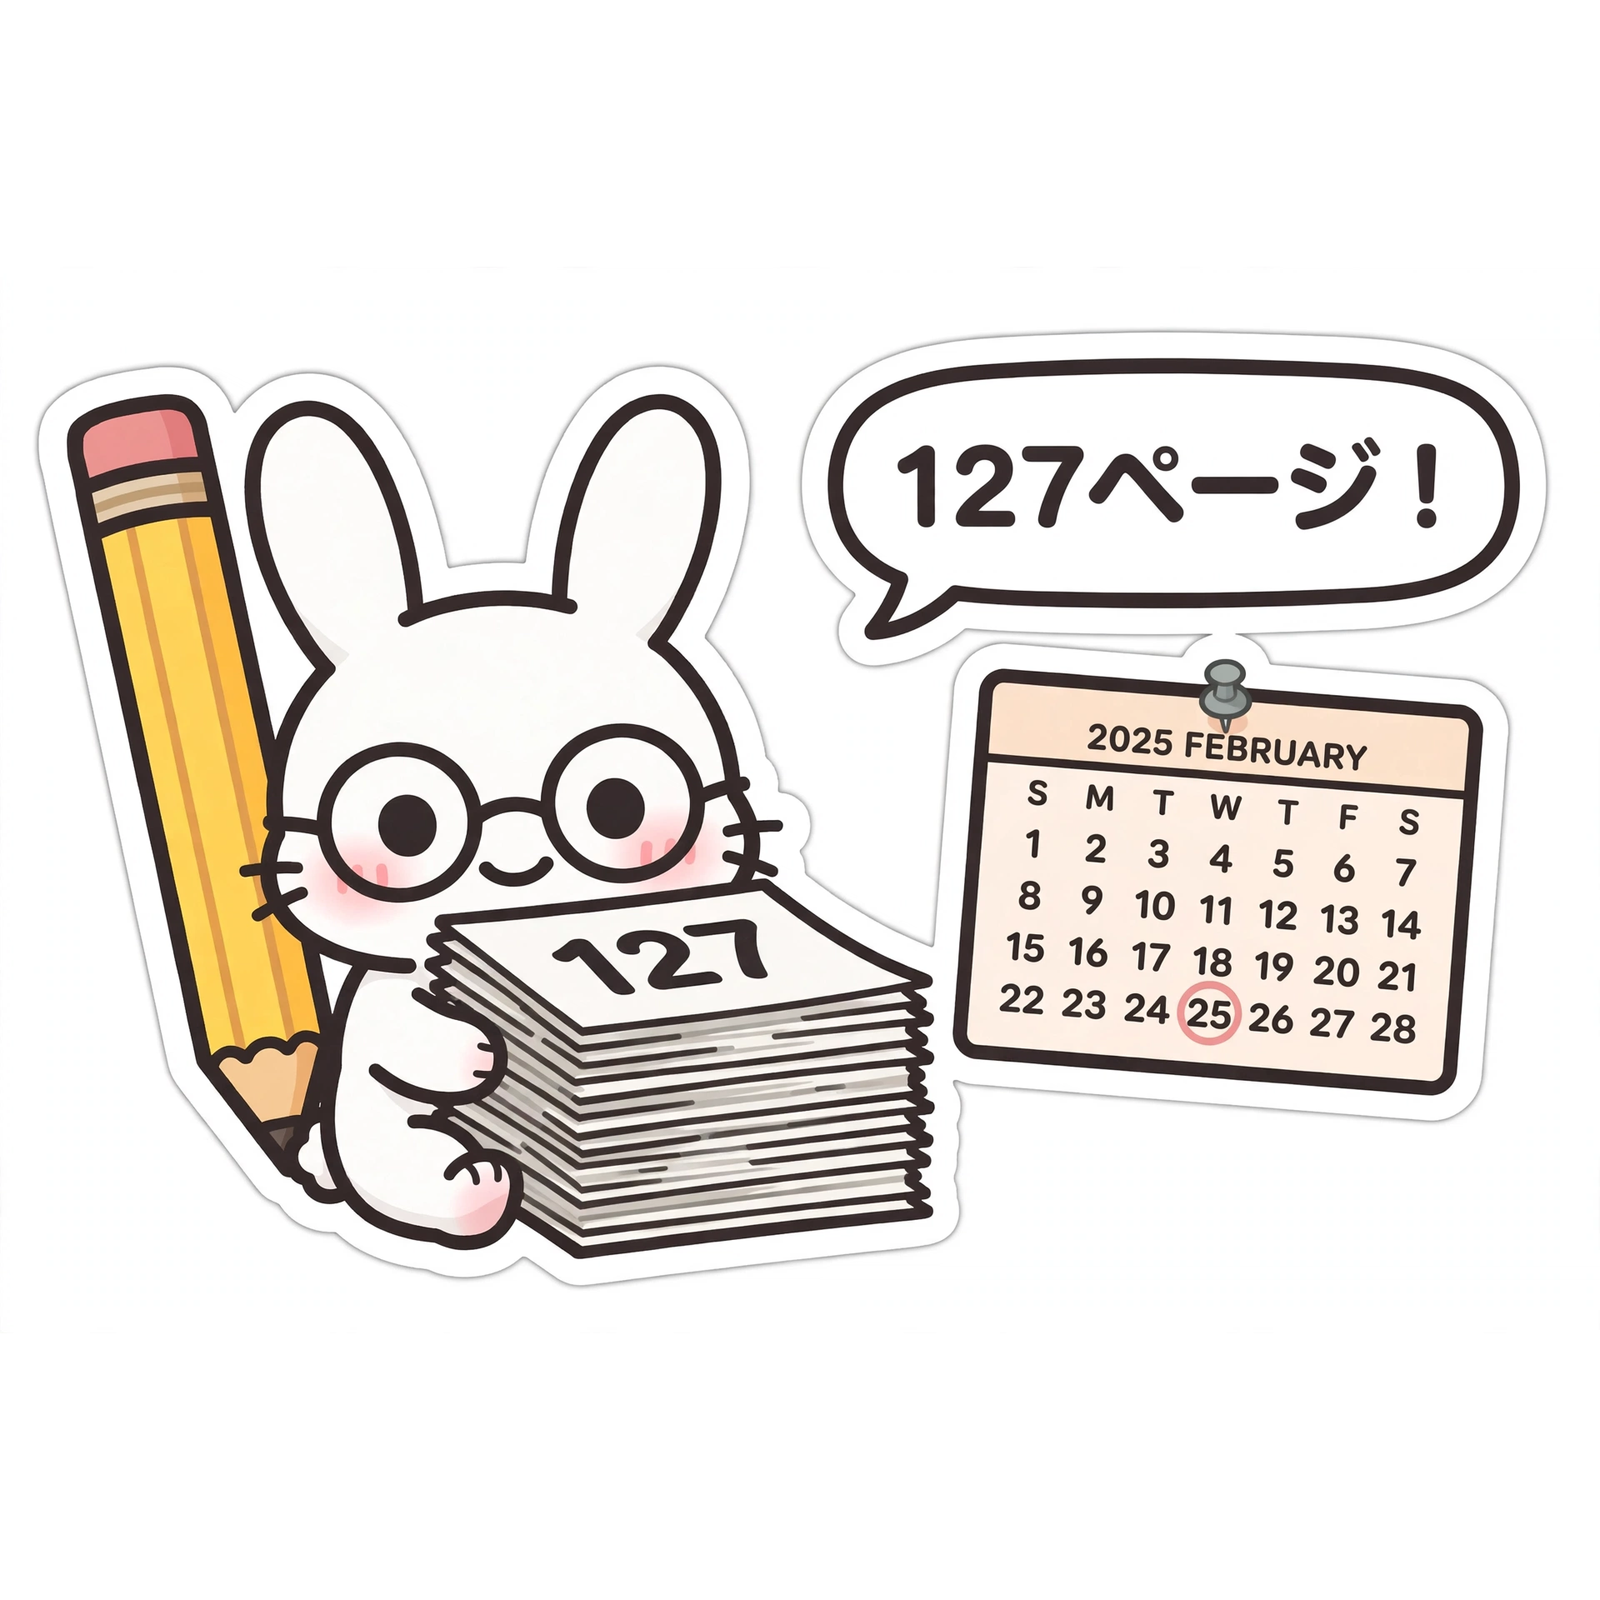
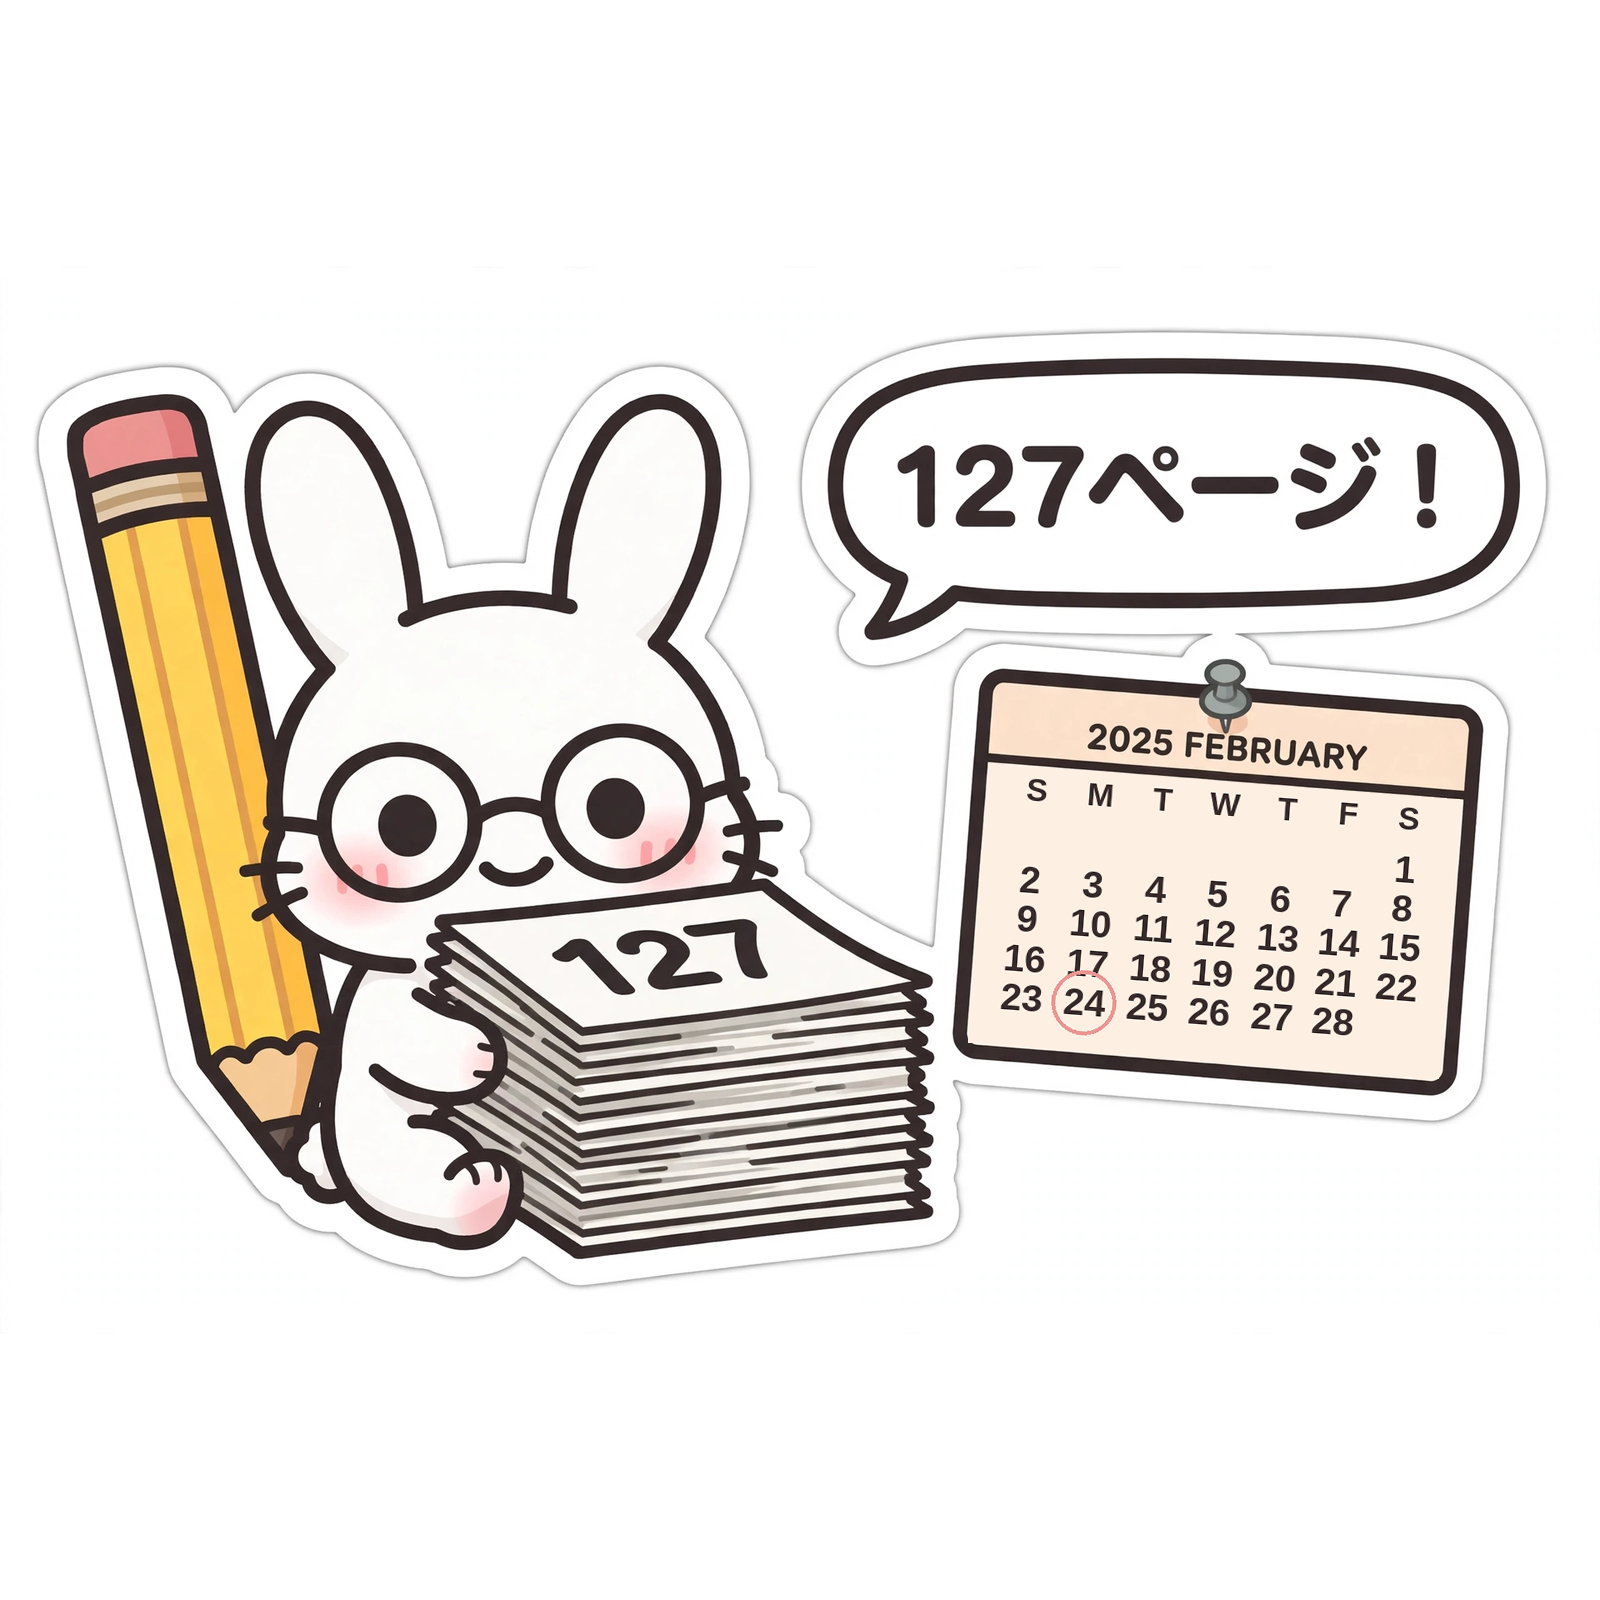
Publish Kakeya set (02 calendar fixed, QA 8.6/10) + list on site

Changed region(s): [[0.625, 0.5, 0.9062, 0.6562]]

diff --git a/web_app/share/kakeya-wang-hong/index.html b/web_app/share/kakeya-wang-hong/index.html
@@ -1,0 +1,32 @@
+<!DOCTYPE html>
+<html lang="zh-CN">
+<head>
+<meta charset="utf-8">
+<meta name="viewport" content="width=device-width, initial-scale=1">
+<title>《一根针穿过三维》：王虹的菲尔兹奖证明，和一夜 722 篇没人读过的手稿 — Sticker Showcase</title>
+<meta name="description" content="127 页读了一年半，722 篇一夜没人读完。最后一张：试金石在这儿。">
+<meta property="og:type" content="article">
+<meta property="og:site_name" content="Sticker Showcase">
+<meta property="og:title" content="《一根针穿过三维》：王虹的菲尔兹奖证明，和一夜 722 篇没人读过的手稿">
+<meta property="og:description" content="127 页读了一年半，722 篇一夜没人读完。最后一张：试金石在这儿。">
+<meta property="og:image" content="https://sutekka-generator.vercel.app/og/kakeya-wang-hong.jpg">
+<meta property="og:image:width" content="1200">
+<meta property="og:image:height" content="604">
+<meta property="og:url" content="https://sutekka-generator.vercel.app/share/kakeya-wang-hong/">
+<meta name="twitter:card" content="summary_large_image">
+<meta name="twitter:title" content="《一根针穿过三维》：王虹的菲尔兹奖证明，和一夜 722 篇没人读过的手稿">
+<meta name="twitter:description" content="127 页读了一年半，722 篇一夜没人读完。最后一张：试金石在这儿。">
+<meta name="twitter:image" content="https://sutekka-generator.vercel.app/og/kakeya-wang-hong.jpg">
+<link rel="canonical" href="https://sutekka-generator.vercel.app/share/kakeya-wang-hong/">
+<style>body{font-family:system-ui,sans-serif;background:#faf7f0;color:#1d1a16;margin:0;padding:48px 20px;text-align:center}h1{font-size:22px}p{color:#555;max-width:560px;margin:12px auto}a{color:#b3402a}</style>
+<script>location.replace('/#/set/kakeya-wang-hong');</script>
+</head>
+<body>
+<main>
+<h1>《一根针穿过三维》：王虹的菲尔兹奖证明，和一夜 722 篇没人读过的手稿</h1>
+<p>127 页读了一年半，722 篇一夜没人读完。最后一张：试金石在这儿。</p>
+<p>Opening the sticker set…</p>
+<p><a href="/#/set/kakeya-wang-hong">View 《一根针穿过三维：王虹的菲尔兹奖证明，与它引爆的AI验证危机》 on Sticker Showcase →</a></p>
+</main>
+</body>
+</html>

diff --git a/stickers/kakeya-wang-hong/qa.md b/stickers/kakeya-wang-hong/qa.md
@@ -2,7 +2,16 @@
 
 - 套装 slug：`kakeya-wang-hong`
 - 质检人：Muse（按 SPEC §7 逐项打分，亲自看过拼版与 02 单张）
-- 结论：**PASS，8.3/10** — 可交付总编辑决定是否发布。
+- 结论：**PASS，8.6/10** — 已按总编辑决定修复 02 日历后发布。
+
+## 修复记录（2026-11-25，总编辑决定“先修 02 再发”）
+
+- 02 日历已修复：模型重画失败（仍圈 25 号且丢了 28 号），改用确定性
+  像素修复——只重建日历内部的日期格（2025 年 2 月真实格子：1 号在
+  星期六列，24 号圈红），其余像素原样不动。质检亲自看过修复后的
+  02 单张：日历正确、24 号圈红、日文 `127ページ！`、黎黎与 127 纸摞
+  完好；拼版像素对比：只有 02 格变化，其余 7 格像素相同。
+- 修复后重评：事实准确 8→9、可读性 8→9；**平均 60/7 ≈ 8.6/10**。
 
 ## 评分
 
